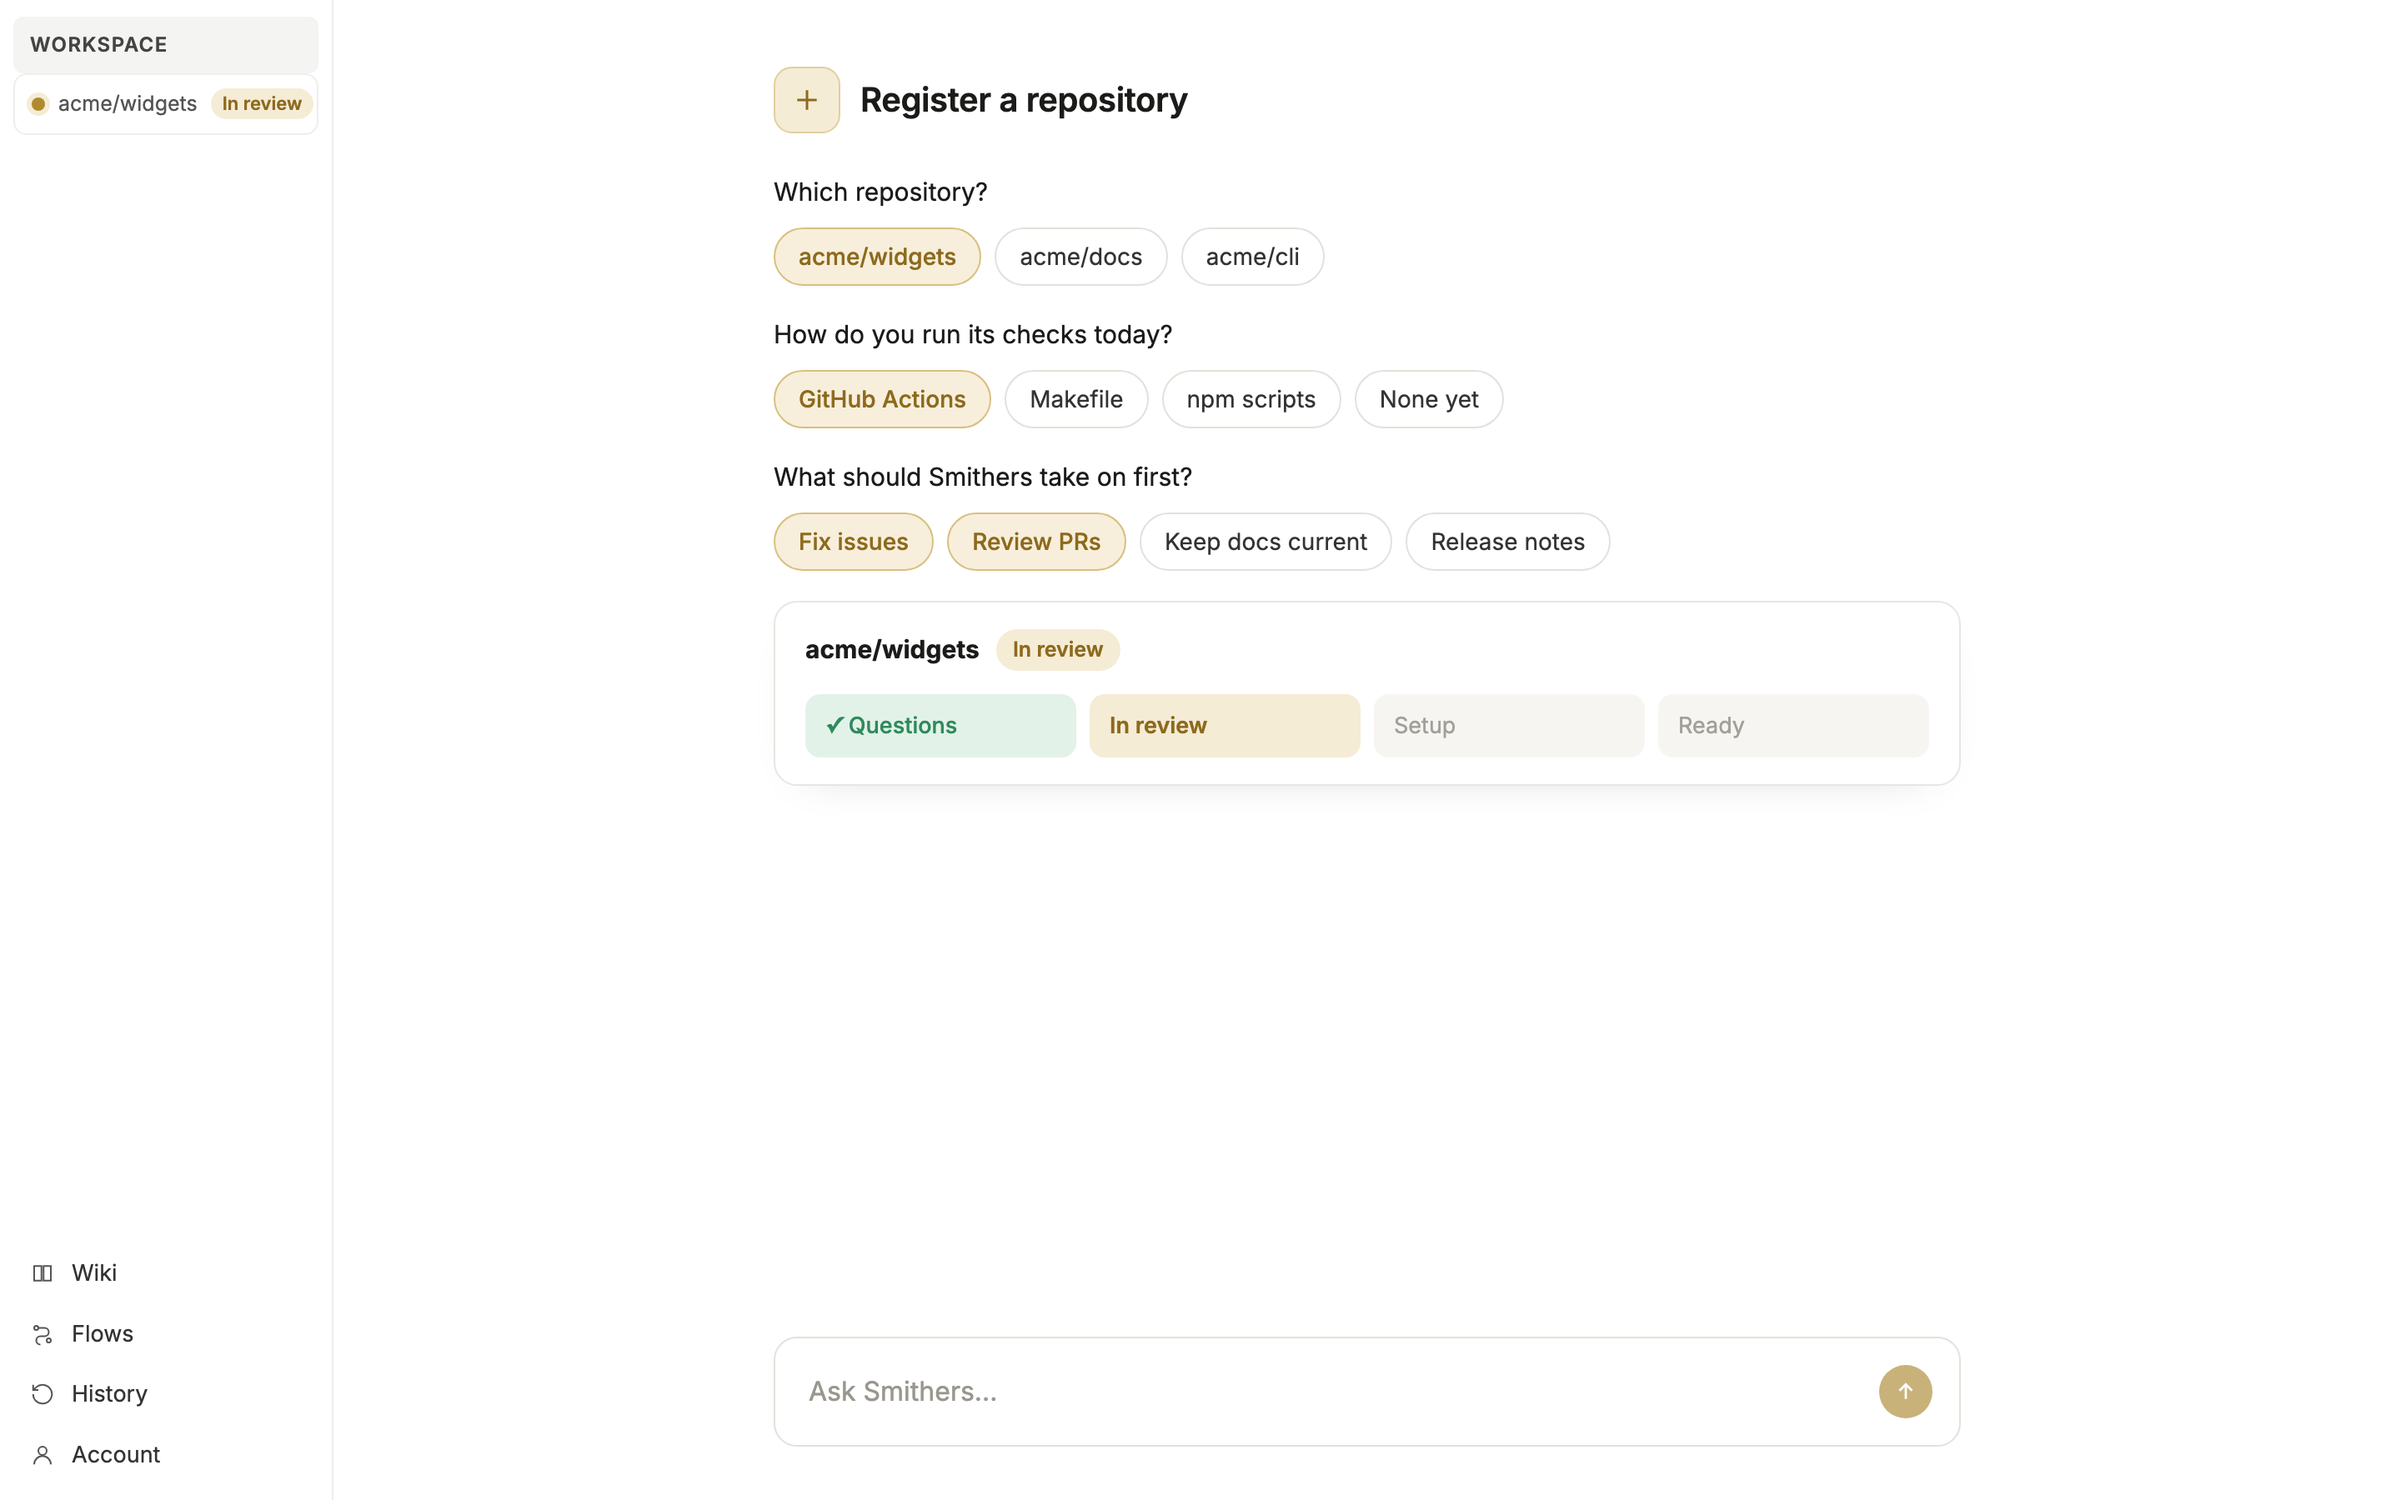
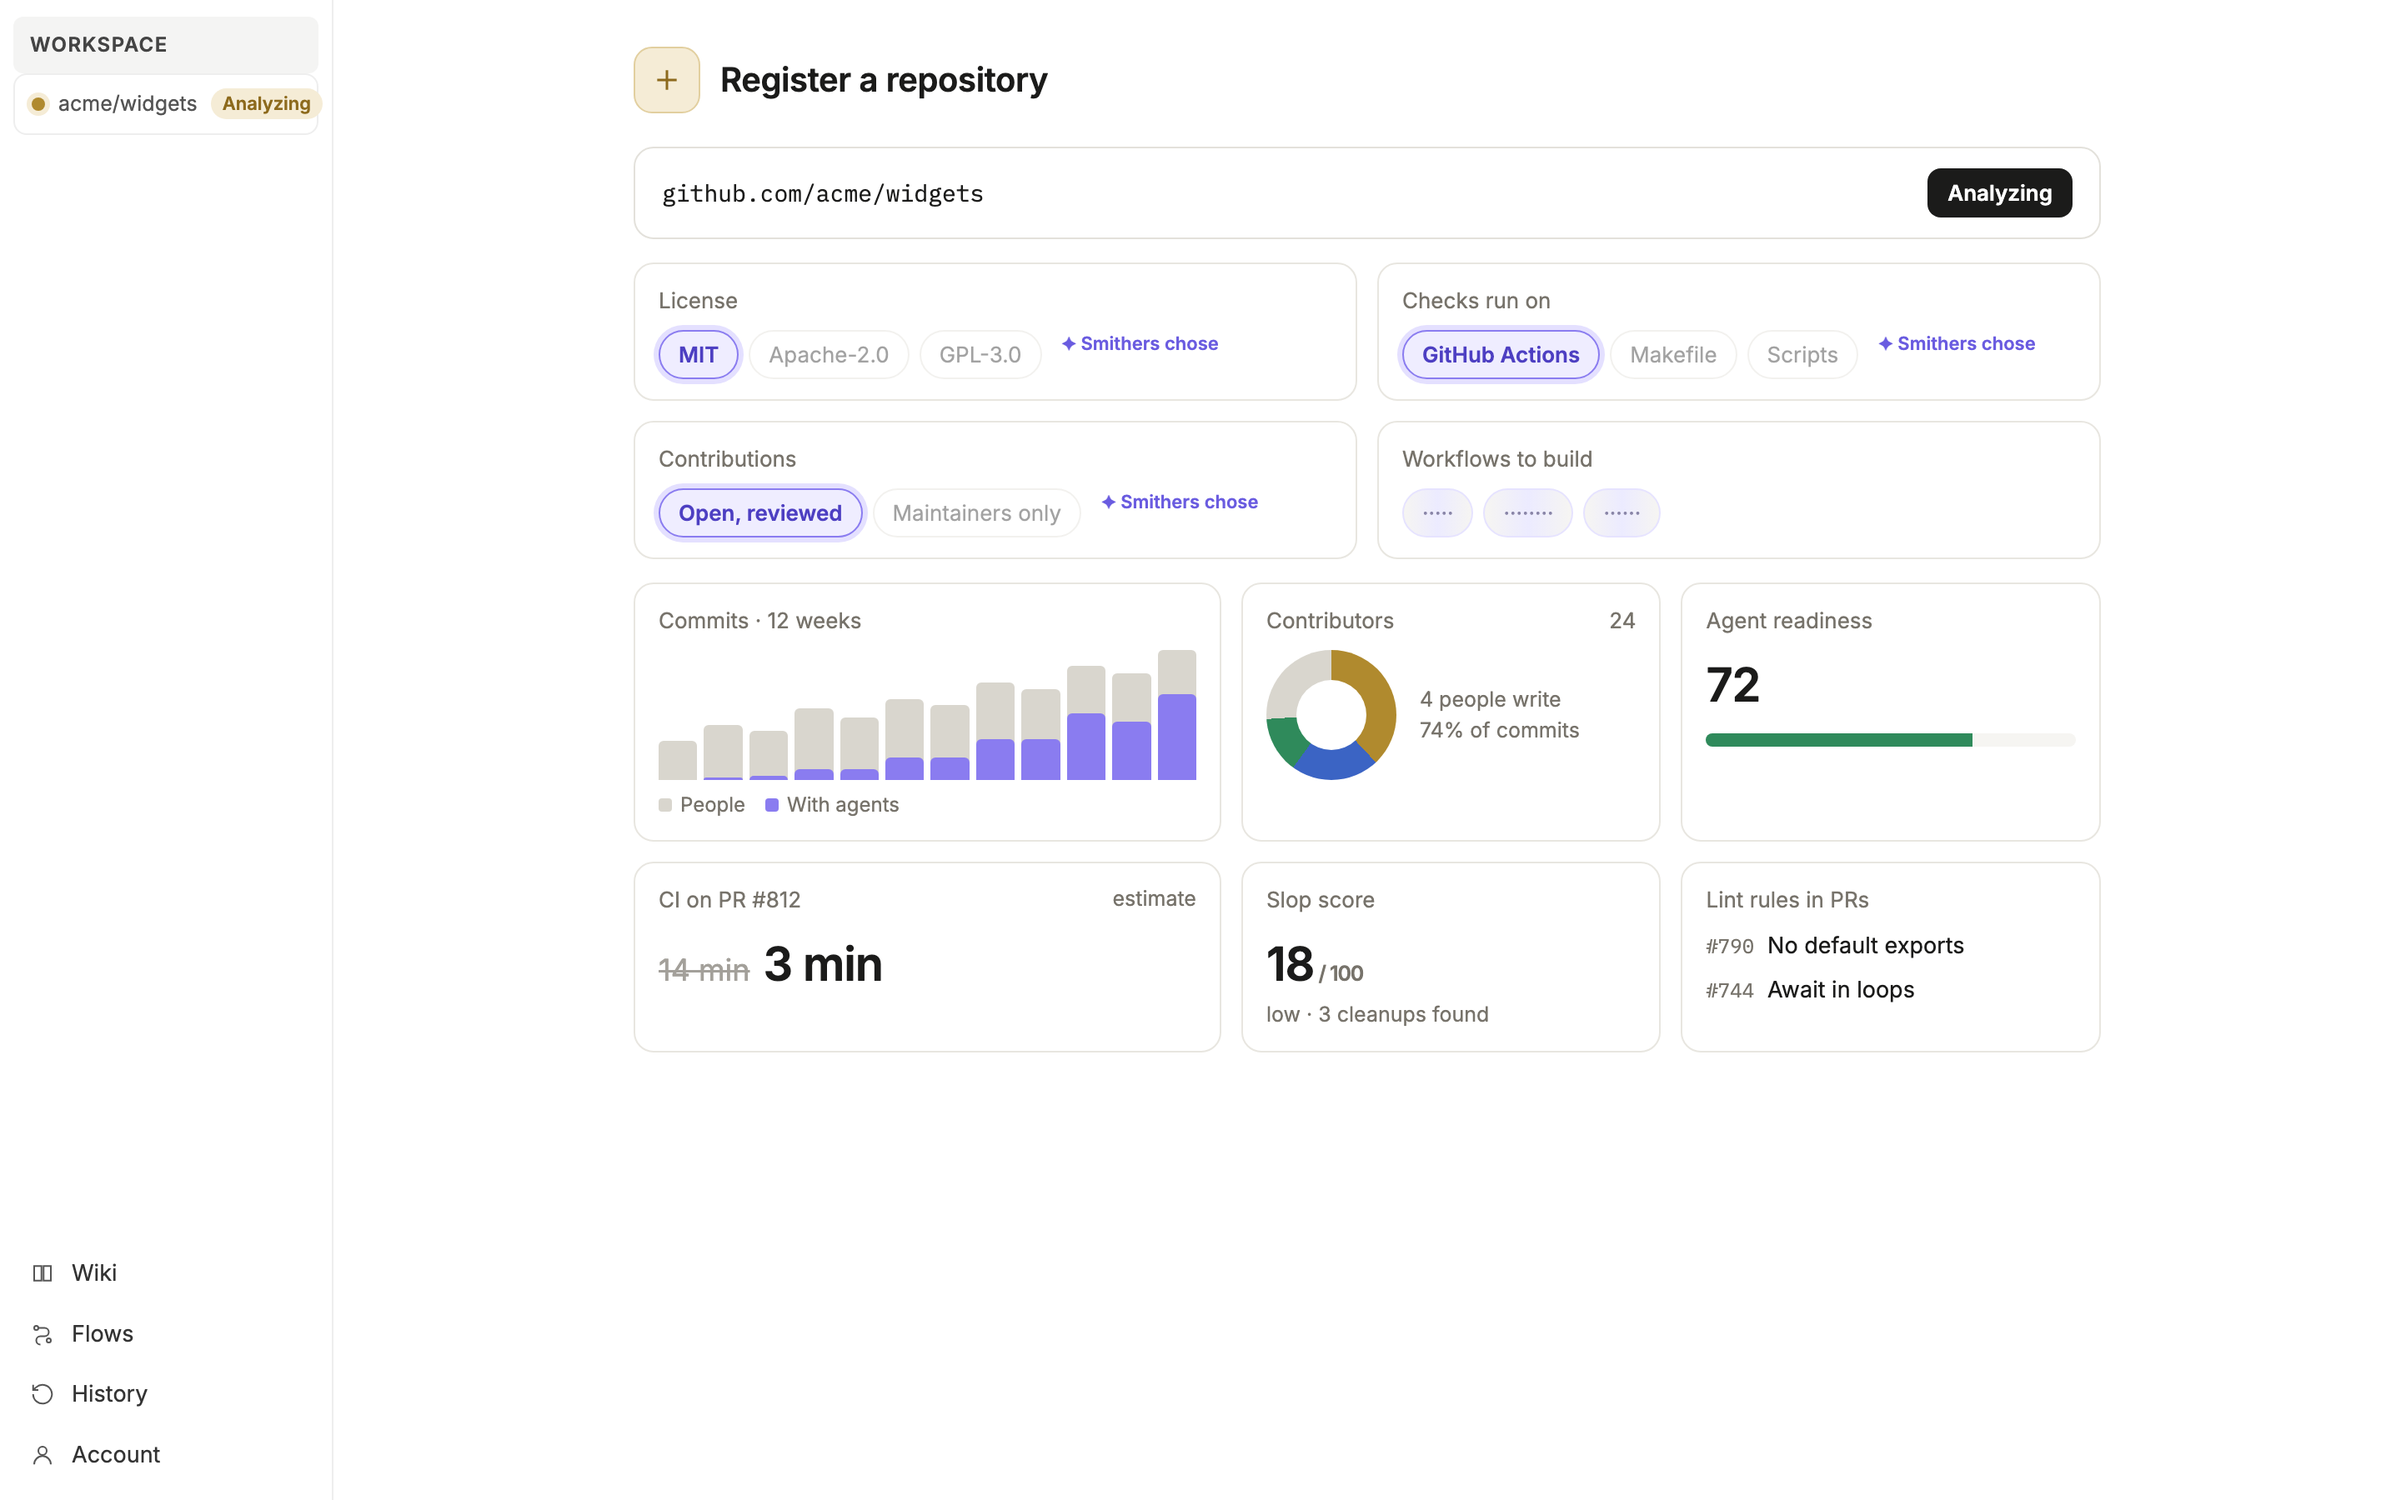
📝 docs(site): show registration as a live repository analysis
Registration starts from a pasted repository link and analyzes it while
the user watches: Smithers' own choices for license, checks, and
contributions, plus commit, contributor, readiness, CI, and slop cards.
Keep the mockup source beside REGISTRATION.md.

diff --git a/docs/mvp/mockups/register.html b/docs/mvp/mockups/register.html
@@ -1,0 +1,116 @@
+<!doctype html>
+<html><head><meta charset="utf-8">
+<link href="https://fonts.googleapis.com/css2?family=Inter:wght@400;500;600;700&family=IBM+Plex+Mono:wght@400;500&display=swap" rel="stylesheet">
+<style>
+:root{
+  --ink:#1b1b1a; --muted:#77736b; --line:#e8e6e0; --soft:#f6f5f2;
+  --gold:#b08a2e; --gold-soft:#f5ecd6; --gold-ink:#8d6a1d;
+  --green:#2f8a5b; --green-soft:#e2f2e9; --red:#b8453a; --red-soft:#f8e3e0;
+  --blue:#3b64c4; --blue-soft:#e4ebfa;
+  --mono:"IBM Plex Mono",ui-monospace,monospace;
+}
+*{box-sizing:border-box}
+html,body{margin:0}
+body{width:1440px;height:900px;font:14px/1.5 Inter,sans-serif;color:var(--ink);background:#fff;display:flex;overflow:hidden}
+*,*:before,*:after{animation-play-state:paused!important}
+
+/* shell (matches register.png) */
+aside{flex:none;width:200px;border-right:1px solid #eee;padding:10px 8px;display:flex;flex-direction:column}
+.ws{background:#f4f4f3;border-radius:6px;padding:8px 10px;font-size:12px;font-weight:600;letter-spacing:.06em;color:#444}
+.repo{margin:8px 0 10px;border:1px solid #eee;border-radius:8px;padding:8px 10px;font-size:12.5px;color:#333;display:flex;gap:8px;align-items:center;background:#fff}
+.repo svg{width:14px;height:14px;stroke:#555;fill:none;stroke-width:1.6}
+.nav{margin-top:auto;display:flex;flex-direction:column;gap:2px}
+.nav div{padding:7px 10px;color:#333;font-size:13.5px;display:flex;gap:10px;align-items:center}
+.nav svg{width:15px;height:15px;stroke:#555;fill:none;stroke-width:1.6}
+
+
+.status{margin:0 0 10px;border:1px solid #eee;border-radius:8px;padding:8px 10px;font-size:12.5px;color:#555;display:flex;gap:8px;align-items:center}
+.pulse{width:8px;height:8px;border-radius:50%;background:var(--gold);box-shadow:0 0 0 3px var(--gold-soft);flex:none}
+main{flex:1;display:flex;flex-direction:column;align-items:center;padding:40px 40px 32px;min-width:0}
+.col{width:712px;display:flex;flex-direction:column;gap:18px;flex:1}
+.apphead{display:flex;align-items:center;gap:12px;margin-bottom:6px}
+.appicon{width:40px;height:40px;border-radius:11px;background:var(--gold-soft);border:1px solid #e2cf9f;display:grid;place-items:center}
+.appicon svg{width:20px;height:20px;stroke:var(--gold-ink);fill:none;stroke-width:1.8}
+.apphead b{font-size:20px;font-weight:600;letter-spacing:-.01em}
+.me{align-self:flex-end;background:#f3f2ef;border-radius:14px;padding:9px 14px;font-size:15px}
+.bot{font-size:15px}
+.chips{display:flex;gap:8px;margin-top:10px;flex-wrap:wrap}
+.opt{border:1px solid #e3e1db;border-radius:999px;padding:6px 14px;font-size:14px;color:#333;background:#fff}
+.opt.sel{border-color:#d9bf7f;background:#f7efdc;color:var(--gold-ink);font-weight:500}
+.prog{border:1px solid var(--line);border-radius:14px;padding:16px 18px;box-shadow:0 10px 30px -22px rgb(0 0 0/25%)}
+.prog .hd{display:flex;align-items:center;gap:10px;margin-bottom:14px;font-size:15px}
+.steps{display:flex;gap:8px}
+.st{flex:1;border-radius:9px;padding:9px 12px;font-size:13.5px;background:var(--soft);color:#a3a09a}
+.st.done{background:var(--green-soft);color:var(--green);font-weight:500}
+.st.now{background:var(--gold-soft);color:var(--gold-ink);font-weight:600}
+.composer{width:712px;border:1px solid #e3e1db;border-radius:14px;padding:16px 16px 16px 20px;display:flex;align-items:center;gap:12px;font-size:16px}
+.composer .ph{flex:1;color:#9a978f}
+.send{width:32px;height:32px;border-radius:50%;background:#c9b27a;display:grid;place-items:center}
+.send svg{width:15px;height:15px;stroke:#fff;fill:none;stroke-width:2.2}
+.chip{font-size:12.5px;font-weight:600;border-radius:999px;padding:3px 10px;white-space:nowrap}.run{background:var(--gold-soft);color:var(--gold-ink)}
+.status .n{flex:1}.status .chip{font-size:11px;padding:1px 7px}
+
+main{padding:28px 40px 24px}
+.col{width:880px;gap:14px}
+.link{display:flex;align-items:center;gap:10px;border:1px solid #e3e1db;border-radius:12px;padding:12px 16px;font-size:15px}
+.link .u{flex:1;font-family:var(--mono);font-size:14px}
+.link .go{font-size:13px;font-weight:600;color:#fff;background:var(--ink);border-radius:8px;padding:5px 12px}
+.qs{display:grid;grid-template-columns:1fr 1fr;gap:12px}
+.q{border:1px solid var(--line);border-radius:12px;padding:12px 14px}
+.q .l{font-size:13px;color:var(--muted);margin-bottom:8px}
+.q .chips{margin:0;gap:6px}
+.q .opt{font-size:13px;padding:4px 11px}
+.q .opt.ai{border-color:#8a7cf0;background:#efedff;color:#4d3fc2;font-weight:600;position:relative;box-shadow:0 0 0 3px #e4e0ff}
+.q .opt.dim{opacity:.45}
+.spark{font-size:11px;color:#6a5ce0;font-weight:600;margin-left:6px}
+.q.live .opt{background:linear-gradient(90deg,#f6f5f2 0%,#ecebff 50%,#f6f5f2 100%);border-color:#e6e3ff;color:#8a86a8}
+.cards{display:grid;grid-template-columns:1.4fr 1fr 1fr;gap:12px}
+.c{border:1px solid var(--line);border-radius:12px;padding:12px 14px}
+.c .l{font-size:13px;color:var(--muted);margin-bottom:8px;display:flex;justify-content:space-between}
+.big{font-size:28px;font-weight:600;letter-spacing:-.02em}
+.sub{font-size:12.5px;color:var(--muted)}
+.bars{display:flex;align-items:flex-end;gap:4px;height:78px}
+.bars i{flex:1;background:#d9d6ce;border-radius:3px 3px 0 0;position:relative;display:block}
+.bars i b{position:absolute;left:0;right:0;bottom:0;background:#8a7cf0;border-radius:3px 3px 0 0}
+.legend{display:flex;gap:12px;font-size:12px;color:var(--muted);margin-top:6px}
+.legend span:before{content:"";display:inline-block;width:8px;height:8px;border-radius:2px;margin-right:5px;background:#d9d6ce}
+.legend span.a:before{background:#8a7cf0}
+.donut{width:78px;height:78px;border-radius:50%;background:conic-gradient(#b08a2e 0 38%,#3b64c4 38% 60%,#2f8a5b 60% 74%,#d9d6ce 74% 100%);position:relative;flex:none}
+.donut:after{content:"";position:absolute;inset:18px;border-radius:50%;background:#fff}
+.row{display:flex;gap:14px;align-items:center}
+.meter{height:8px;border-radius:4px;background:var(--soft);overflow:hidden;margin-top:8px}.meter i{display:block;height:100%;background:var(--green)}
+.ci{display:flex;align-items:baseline;gap:8px}
+.ci s{color:#a3a09a;font-size:18px}
+.wf{display:flex;flex-direction:column;gap:6px;font-size:13.5px}
+.wf div{display:flex;gap:8px;align-items:center}
+.wf .n{font-family:var(--mono);font-size:12px;color:var(--muted)}
+</style></head><body><aside>
+  <div class="ws">WORKSPACE</div>
+  <div class="status"><span class="pulse"></span><span class="n">acme/widgets</span><span class="chip run">Analyzing</span></div><div class="repo" style="display:none"><svg viewBox="0 0 24 24"><path d="M5 4h11a3 3 0 0 1 3 3v13H8a3 3 0 0 1-3-3zM5 17a3 3 0 0 1 3-3h11"/></svg>acme/widgets</div>
+  <div class="nav">
+    <div><svg viewBox="0 0 24 24"><path d="M4 5h7v14H4zM13 5h7v14h-7z"/></svg>Wiki</div>
+    <div><svg viewBox="0 0 24 24"><circle cx="6" cy="6" r="2"/><circle cx="18" cy="18" r="2"/><path d="M8 6h6a4 4 0 0 1 0 8h-4a4 4 0 0 0 0 8"/></svg>Flows</div>
+    <div><svg viewBox="0 0 24 24"><path d="M3 12a9 9 0 1 0 3-6.7L3 8M3 3v5h5"/></svg>History</div>
+    <div><svg viewBox="0 0 24 24"><circle cx="12" cy="8" r="4"/><path d="M4 21a8 8 0 0 1 16 0"/></svg>Account</div>
+  </div>
+</aside><main><div class="col">
+  <div class="apphead"><span class="appicon"><svg viewBox="0 0 24 24"><path d="M12 5v14M5 12h14"/></svg></span><b>Register a repository</b></div>
+  <div class="link"><span class="u">github.com/acme/widgets</span><span class="go">Analyzing</span></div>
+  <div class="qs">
+    <div class="q"><div class="l">License</div><div class="chips"><span class="opt ai">MIT</span><span class="opt dim">Apache-2.0</span><span class="opt dim">GPL-3.0</span><span class="spark">✦ Smithers chose</span></div></div>
+    <div class="q"><div class="l">Checks run on</div><div class="chips"><span class="opt ai">GitHub Actions</span><span class="opt dim">Makefile</span><span class="opt dim">Scripts</span><span class="spark">✦ Smithers chose</span></div></div>
+    <div class="q"><div class="l">Contributions</div><div class="chips"><span class="opt ai">Open, reviewed</span><span class="opt dim">Maintainers only</span><span class="spark">✦ Smithers chose</span></div></div>
+    <div class="q live"><div class="l">Workflows to build</div><div class="chips"><span class="opt">·····</span><span class="opt">········</span><span class="opt">······</span></div></div>
+  </div>
+  <div class="cards">
+    <div class="c"><div class="l"><span>Commits · 12 weeks</span></div>
+      <div class="bars"><i style="height:30%"><b style="height:0%"></b></i><i style="height:42%"><b style="height:5%"></b></i><i style="height:38%"><b style="height:8%"></b></i><i style="height:55%"><b style="height:15%"></b></i><i style="height:48%"><b style="height:18%"></b></i><i style="height:62%"><b style="height:28%"></b></i><i style="height:58%"><b style="height:30%"></b></i><i style="height:75%"><b style="height:42%"></b></i><i style="height:70%"><b style="height:45%"></b></i><i style="height:88%"><b style="height:58%"></b></i><i style="height:82%"><b style="height:55%"></b></i><i style="height:100%"><b style="height:66%"></b></i></div>
+      <div class="legend"><span>People</span><span class="a">With agents</span></div></div>
+    <div class="c"><div class="l"><span>Contributors</span><span>24</span></div>
+      <div class="row"><div class="donut"></div><div class="sub">4 people write<br>74% of commits</div></div></div>
+    <div class="c"><div class="l"><span>Agent readiness</span></div><div class="big">72</div><div class="meter"><i style="width:72%"></i></div></div>
+    <div class="c"><div class="l"><span>CI on PR #812</span><span class="sub">estimate</span></div><div class="ci"><s>14 min</s><span class="big">3 min</span></div></div>
+    <div class="c"><div class="l"><span>Slop score</span></div><div class="big">18<span class="sub"> / 100</span></div><div class="sub">low · 3 cleanups found</div></div>
+    <div class="c"><div class="l"><span>Lint rules in PRs</span></div><div class="wf"><div><span class="n">#790</span>No default exports</div><div><span class="n">#744</span>Await in loops</div></div></div>
+  </div>
+</div></main></body></html>

diff --git a/docs/mvp/REGISTRATION.md b/docs/mvp/REGISTRATION.md
@@ -2,8 +2,8 @@
 
 Owner direction (Will, 2026-09-26). Decision D-19 in [PRODUCT.md](PRODUCT.md).
 Tracking issue: #2153.
-Target screens: `apps/site/public/images/app/register.png` and the
-Overview's "Register your repository" section.
+Target screen: `apps/site/public/images/app/register.png` (source
+`docs/mvp/mockups/register.html`) and the Overview's "Register your repository" section.
 
 ## Goal
 
